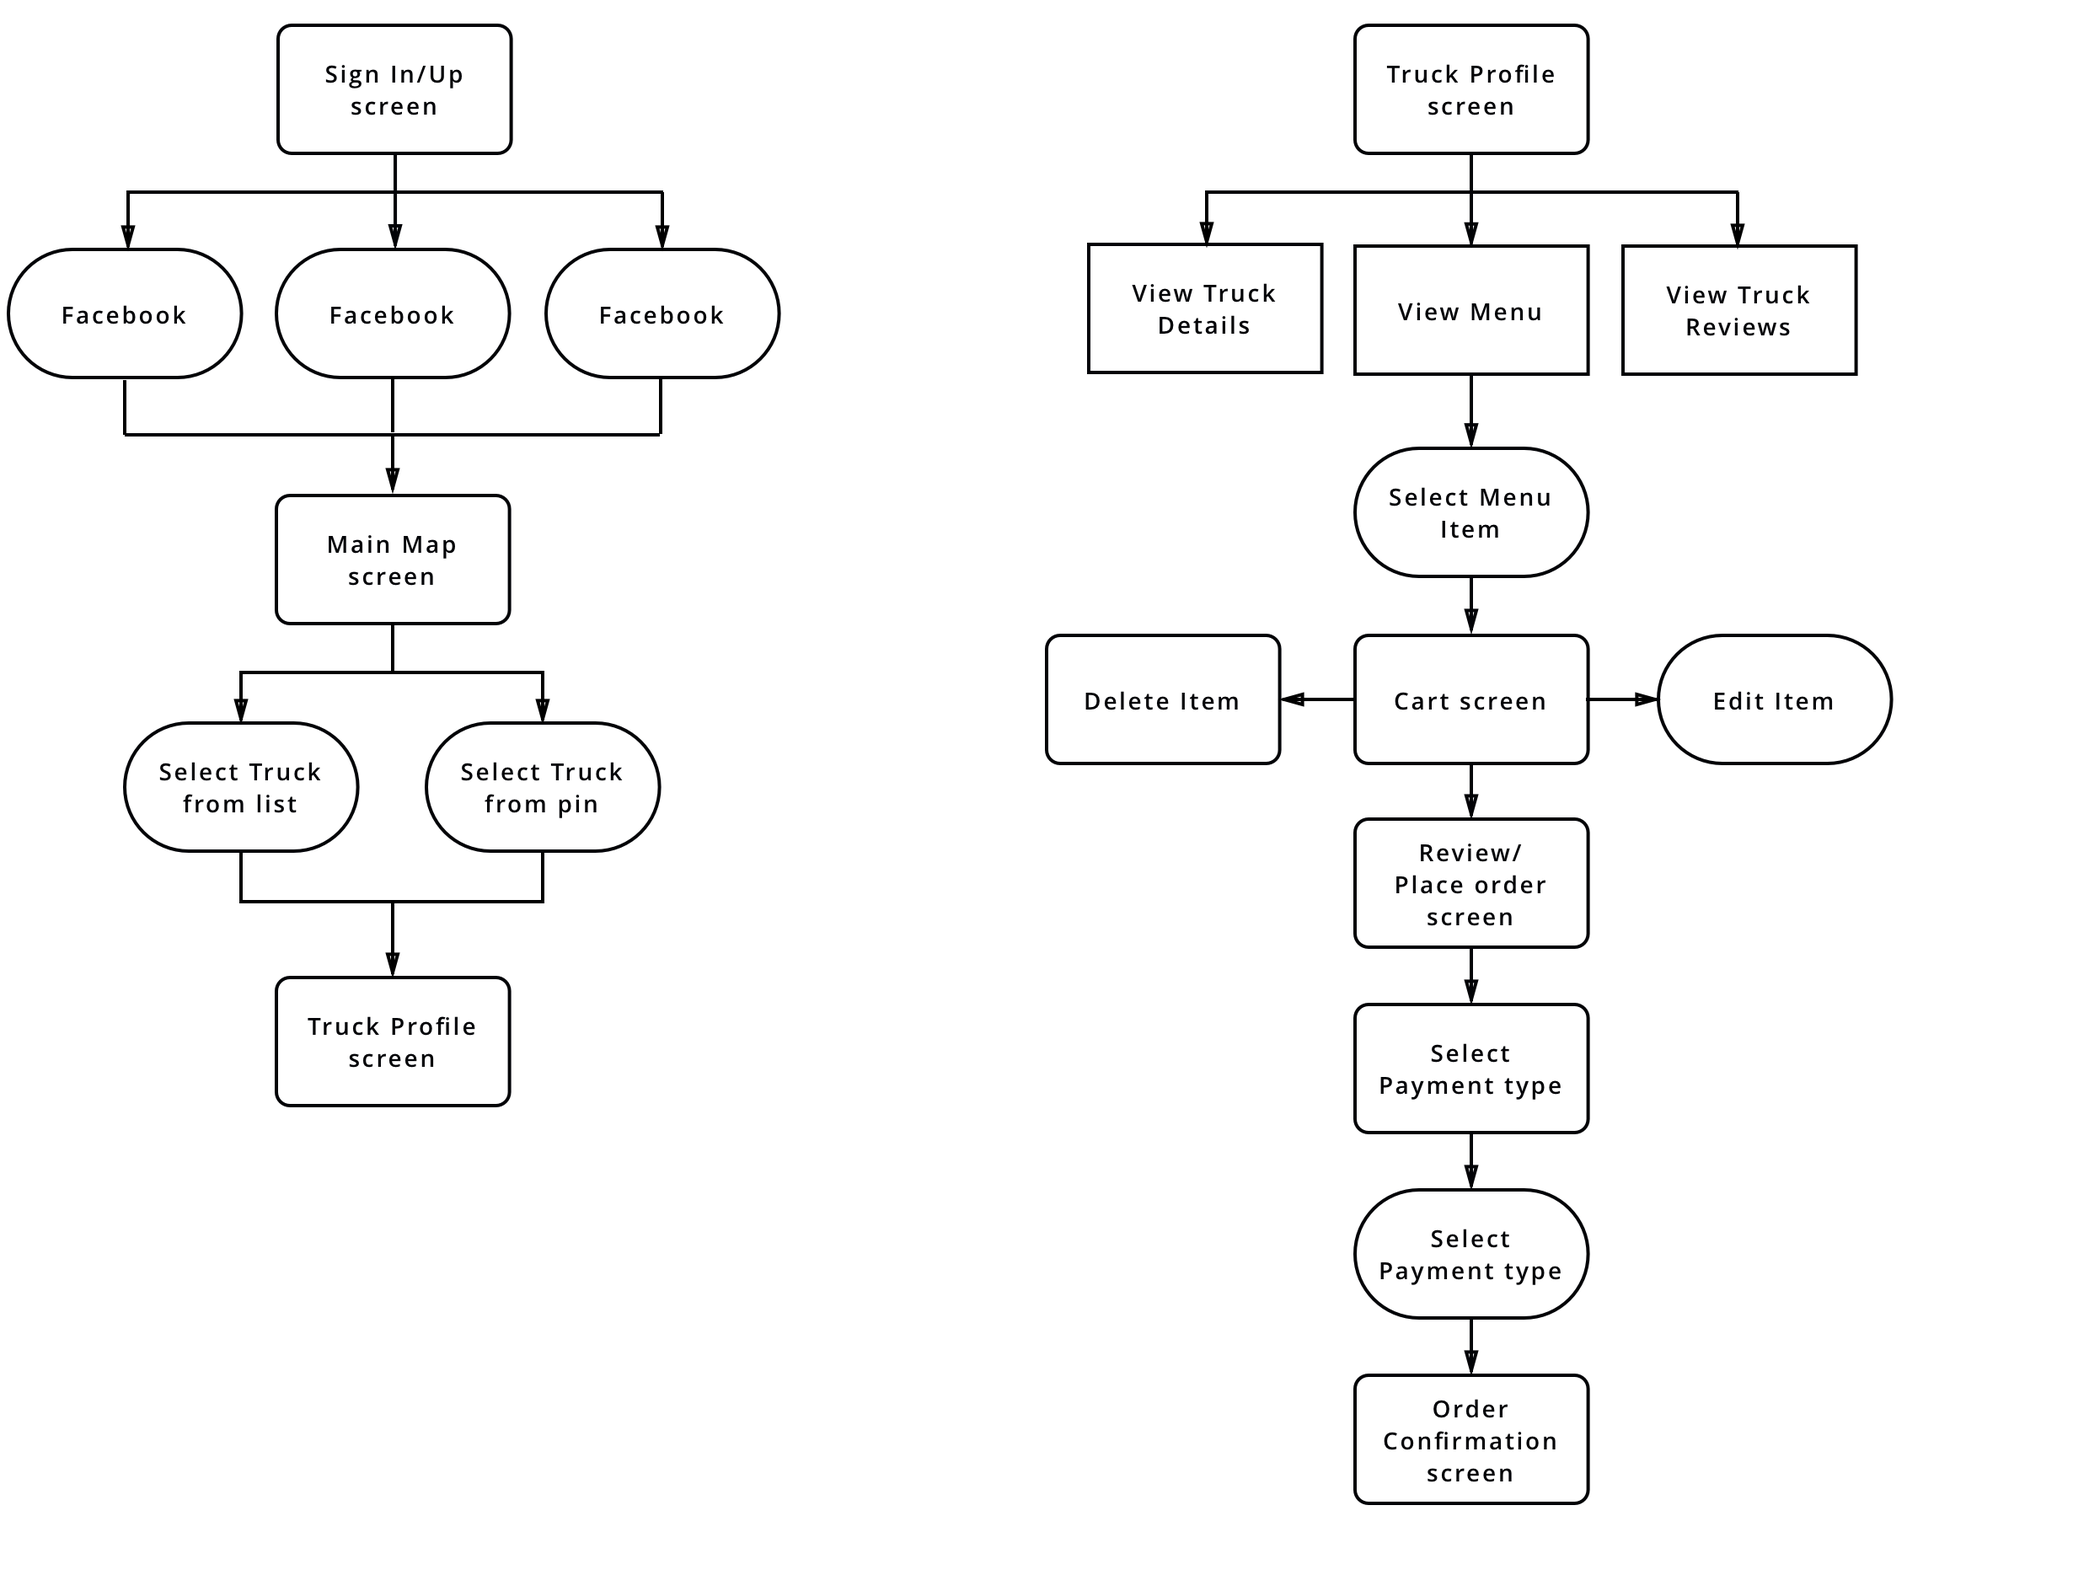
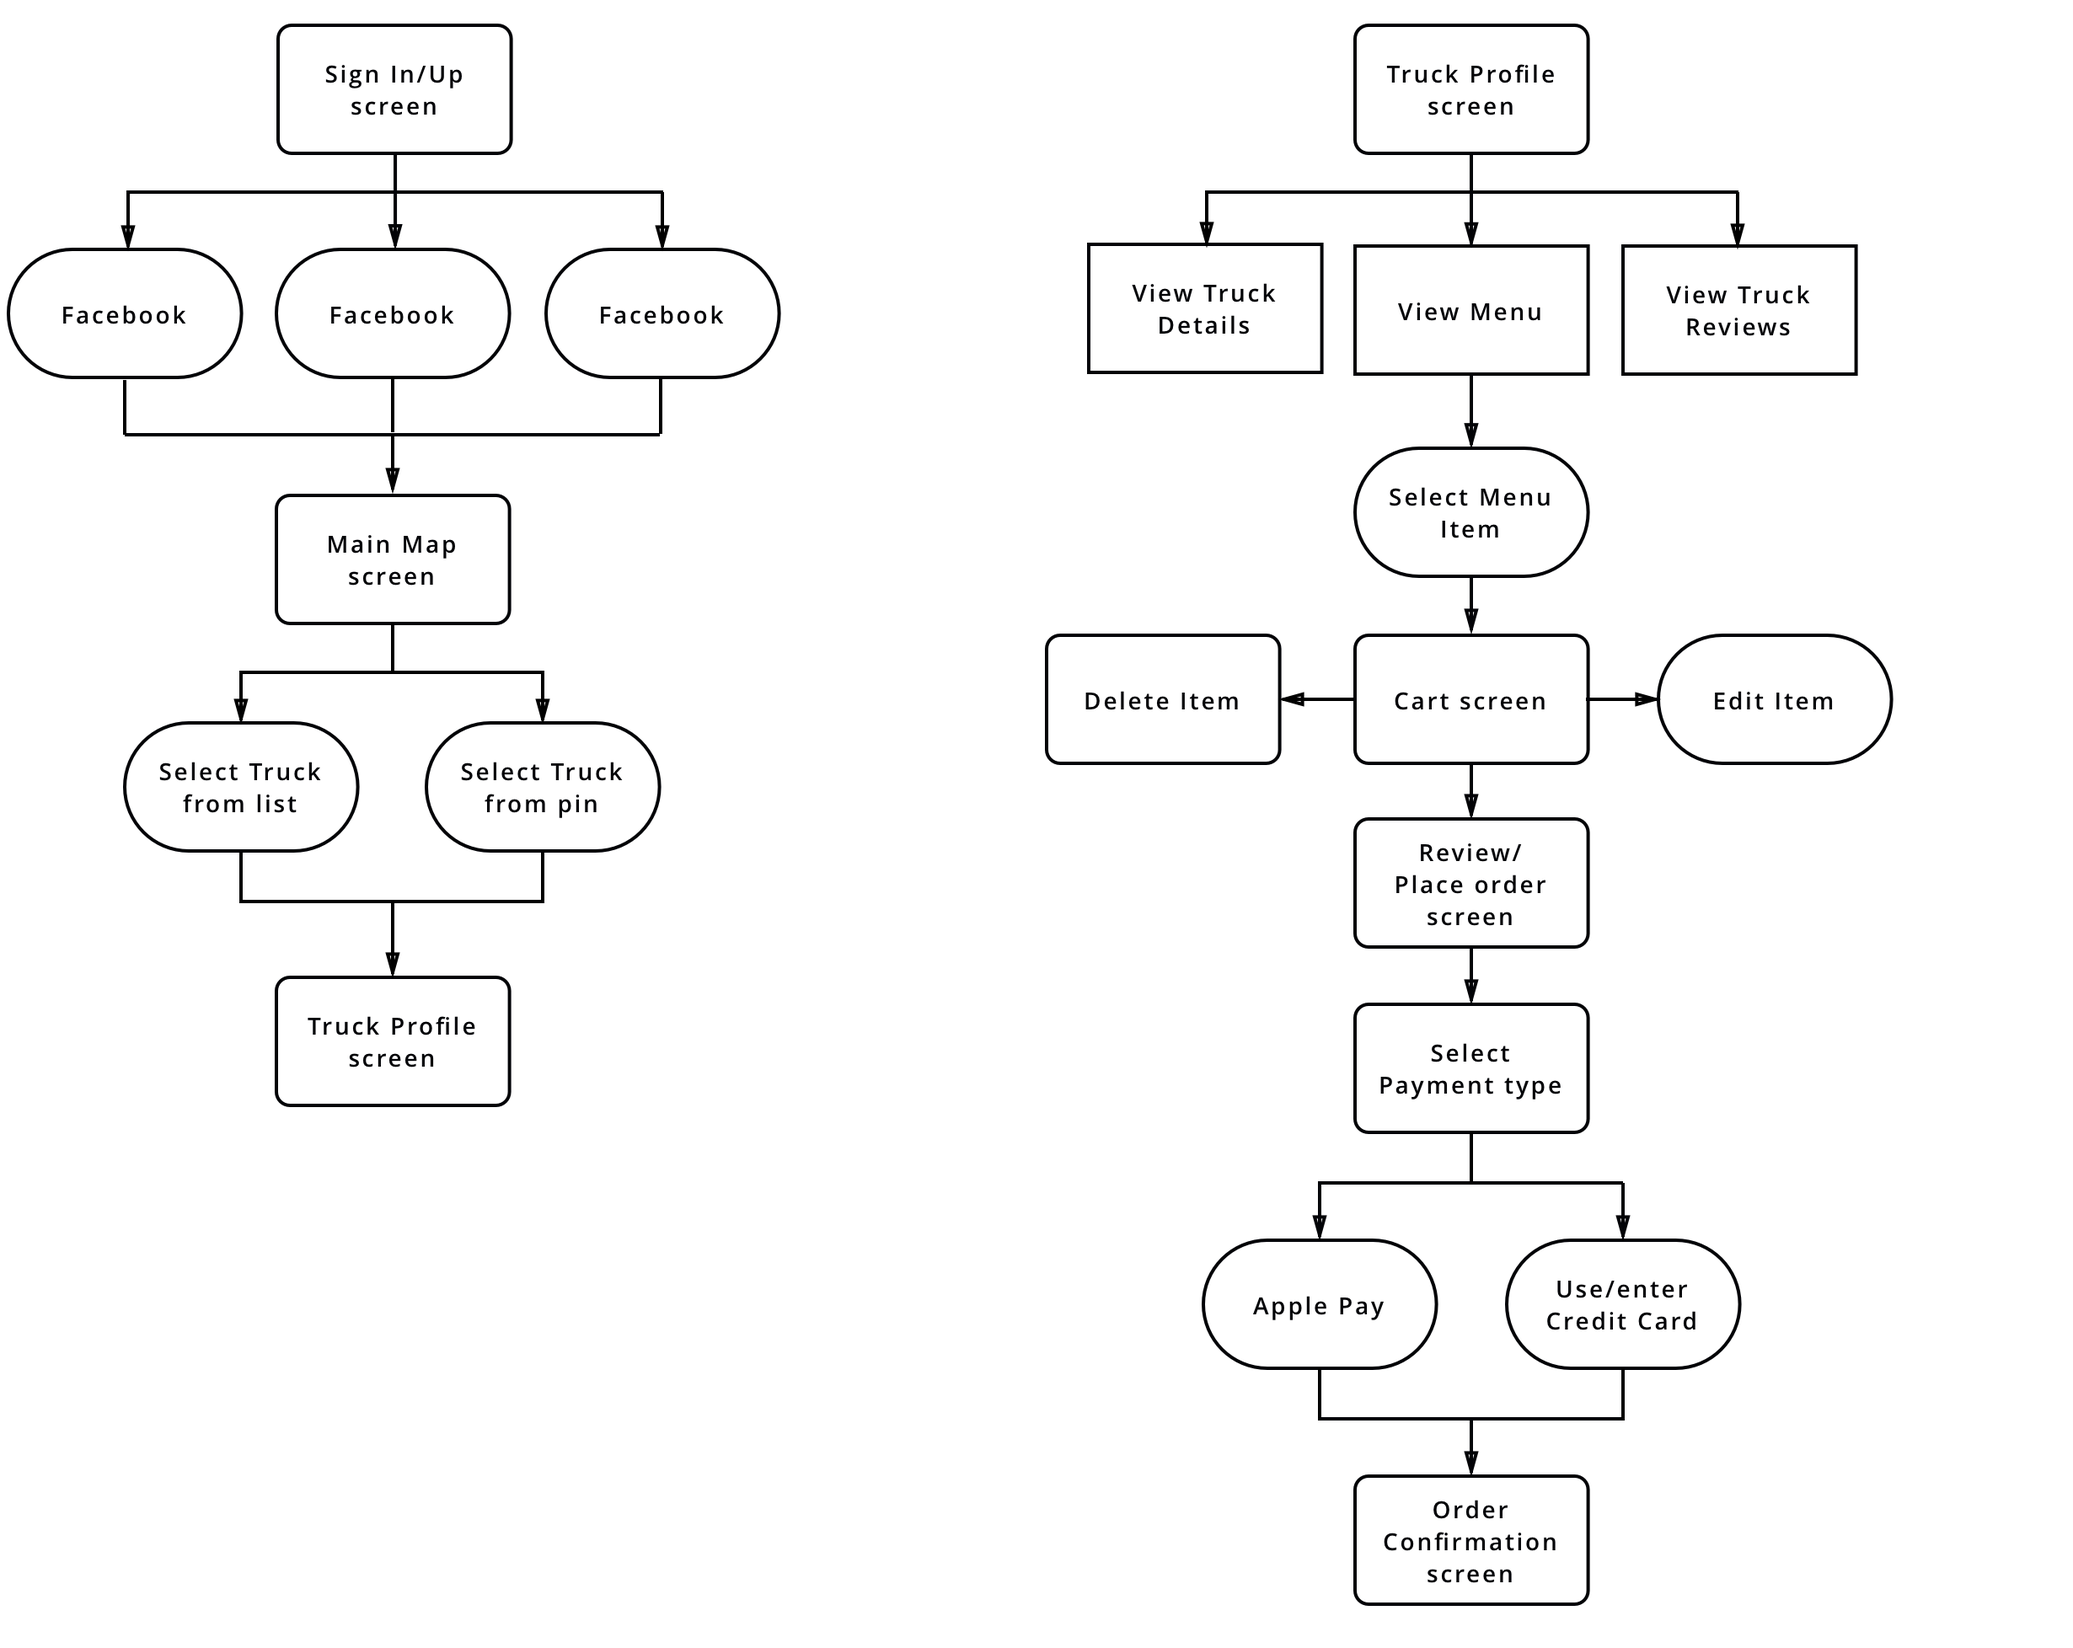
added rest of tasty trucks case study

diff --git a/case-studies/tasty-trucks.html b/case-studies/tasty-trucks.html
@@ -67,7 +67,7 @@
                     <div class="study-intro-text right-pad">
                         <div class="intro-content">
                             <h2>Find local FoodTrucks,
-Order through app,
+Order on app,
 Pick up food,
 Done.</h2>         
                         </div>
@@ -83,7 +83,7 @@ Done.</h2>
                       <h2  class="study-pad section-header">The Solution</h2>
                       <p   class="study-pad">I researched mobile apps in the food delivery sector. The GrubHub app inspired the design for Tasty Trucks.</p>
                       <p><img class="study-pad" src="../assets/tasty-trucks/five-screens.png" alt="Five Screen images of Tasty Trucks" /></p>
-                      <a class="study-pad" href="https://invis.io/8G98G3AQN">Link to Invision Prototype</a>    
+                      <a class="study-pad" href="https://invis.io/8G98G3AQN">View InVision Prototype</a>    
                       
                       
                     </div>
@@ -223,83 +223,63 @@ Done.</h2>
                       <div class="process-section">
                           <h3 class="study-pad sub-section-header">Wireframes</h3>
                           
-                          <p class="study-pad">I came up with a few layouts that I felt captured a vintage wine look reflective of a time and place.</p>
+                          <p class="study-pad">From the user flow diagram I designed low-fidelity wireframes.  I realized through this process that a map would be important for locating trucks.  I also realized that although this is an iOS app that users might not have Apple Pay set up so I added the option of using a credit card for payment.</p>
                           <div class="study-pad img-wrapper tasty-wires">  
                             <img class="study-pad" src="../assets/tasty-trucks/wires/iPhone%207%20-%20Login.png" />
-                            <img class="study-pad" src="../assets/tasty-trucks/wires/iPhone%207%20-%20Slide%20.png" />
+                            <img class="study-pad" src="../assets/tasty-trucks/wires/iPhone%207%20-%20Map%20View%20Final.jpg" />
                               <img class="study-pad" src="../assets/tasty-trucks/wires/iPhone%207%20-%20Menu%20View.jpg" />
                             
                          </div>
-                          <h5 class="study-pad">Wireframe Type 1 variation</h5>
-                         <p class="study-pad">Used an upcoming events bar instead of the email and social media links.  I moved the social links to the top navigation bar.  I also removed the join email list input.</p>
-                          <div class="study-pad img-wrapper personas">  
-                            <img class="study-pad" src="../assets/winery/wires/layout1v2.png" />
+                          <div class="study-pad img-wrapper tasty-wires">
+                             <img class="study-pad" src="../assets/tasty-trucks/wires/iPhone%207%20-%20Truck%20Reviews.jpg" />
                             
-                         </div>
-                          
-                         <h5 class="study-pad">Wireframe Type 2</h5>
-                         
-                          <div class="study-pad img-wrapper personas">  
-                            <img class="study-pad" src="../assets/winery/wires/layout2v1.png" />
+                              <img class="study-pad" src="../assets/tasty-trucks/wires/iPhone%207%20-%20Order%20Details.png" />
                             
-                         </div> 
-                          
-                          <h5 class="study-pad">Wireframe Type 3</h5>
-                          <p class="study-pad">I added bold borders below the hero and background for the to navagation. </p>
-                          <div class="study-pad img-wrapper personas">  
-                            <img class="study-pad" src="../assets/winery/wires/layout3v1.png" />
-                            
-                         </div>
-                          <h5 class="study-pad">Wireframe Type 3 variation</h5>
-                          <p class="study-pad">I moved the image next to the winery information and put it behind the information centering it on the page.  </p>
-                          <div class="study-pad img-wrapper personas">  
-                            <img class="study-pad" src="../assets/winery/wires/layout3v2.png" />
-                            
-                         </div>
+                            <img class="study-pad" src="../assets/tasty-trucks/wires/iPhone%207%20-%20Add%20Payment%20Option.png" />
+                          </div>
+                           <div class="study-pad img-wrapper tasty-wires">
+                            <img class="study-pad" src="../assets/tasty-trucks/wires/iPhone%207%20-%20Add%20Card.png" />
+                            <img class="study-pad" src="../assets/tasty-trucks/wires/iPhone%207%20-%20Account.png" />
+                            <img class="study-pad" src="../assets/tasty-trucks/wires/iPhone%207%20-%20Transcations.png"/>
+                           </div>
+
                       </div>
                         
                       <div class="process-section">
                           <h3 class="study-pad sub-section-header">Mockups</h3>
                           
-                          <h5 class="study-pad mockups">Typography</h5>
-                          <p class="study-pad">Timothy has a serif font for his logo so I decided to paired it with san serif.  I chose Lato because it’s friendly, warm, and sophisticated.</p>
+                          <h5 class="study-pad mockups">UI Elements</h5>
+                          <p class="study-pad">For consistency and familiarity, I used a number of stand UI elements and the iOS SF font.</p>
+                          <div class="study-pad img-wrapper img-pad tasty-elements">  
+                                <img class="study-pad no-border" src="../assets/tasty-trucks/ui-elements.png" />
+                          </div>
+                          
                           <h5 class="study-pad mockups">Color Psychology</h5>
-                          <p class="study-pad">I decided to flip the yellow and black that Timothy has on his label because the yellow stands out better on top of the burgundy color.  Other than that I stuck with Timothy's color palette.</p>
-                          <div class="study-pad img-wrapper img-pad">  
-                                <img class="study-pad no-border" src="../assets/winery/typography.png" />
+                          <p class="study-pad">Red is known to invoke hunger so I chose it as my primary color.  I used a light shade of yellow as the secondary color since it is warm and also can stimulate the appetite.</p>
+                           <div class="study-pad img-wrapper img-pad">  
+                                <img class="study-pad no-border" src="../assets/tasty-trucks/colors.png" />
                           </div>
                     
-<!--
-                          <div class="study-pad typography">
-                              <div class="typo-left">
-                                  <h3 class="typo-heading lora caps">Heading</h3>
-                                  <h1 class="lora">H1 Lora</h1>
-                                  <h2 class="lora">H2 Lora</h2>
-                                  <h3 class="lora header-three">H3 Lora</h3>
-                              </div>
-                              <div class="typo-right">
-                                  <h3 class="typo-heading caps">Paragraph</h3>
-                                  <p>Bacon ipsum dolor amet pork chop pastrami kielbasa meatball sirloin chuck, venison bacon ribeye short ribs beef burgdoggen turkey landjaeger. Brisket pig salami frankfurter turkey capicola, porchetta burgdoggen biltong short loin swine tongue tail cupim</p>
-                              </div>
+
+                          <p class="study-pad">Mockups</p>
+                          <div class="study-pad img-wrapper tasty-wires">  
+                              <img class="study-pad" src="../assets/tasty-trucks/mocks/iPhone%207%20-%20SignUp%20OR%20Login.jpg" />
+                              <img class="study-pad" src="../assets/tasty-trucks/mocks/Initial%20Screen.jpg" />
+                              <img class="study-pad" src="../assets/tasty-trucks/mocks/iPhone%207%20-%20Map%20View%20Final.jpg" />
                              
-                              
                          </div>
--->
-                          <p class="study-pad">Mockup Type 1</p>
-                          <div class="study-pad img-wrapper img-pad">  
-                                <img class="study-pad" src="../assets/winery/mocks/layout1.png" />
+                          <div class="study-pad img-wrapper tasty-wires">
+                             <img class="study-pad" src="../assets/tasty-trucks/mocks/iPhone%207%20-%20Map%20View%20Scoll%20Final.jpg" />
+                            
+                              <img class="study-pad" src="../assets/tasty-trucks/mocks/iPhone%207%20-%20Menu%20View.jpg" />
+                            
+                            <img class="study-pad" src="../assets/tasty-trucks/mocks/iPhone%207%20-%20Food%20Selection.jpg" />
                           </div>
-                        
-                          
-                          <p class="study-pad">Mockup Type 2</p>
-                          <div class="study-pad img-wrapper img-pad">  
-                                <img class="study-pad" src="../assets/winery/mocks/layout2v2.png" />
-                          </div>
-                          
-                          <p class="study-pad">Mockup Type 3</p>
-                          <div class="study-pad img-wrapper img-pad">  
-                                <img class="study-pad" src="../assets/winery/mocks/layout2v4.png" />
-                          </div>
+                           <div class="study-pad img-wrapper tasty-wires">
+                            <img class="study-pad" src="../assets/tasty-trucks/mocks/iPhone%207%20-%20Truck%20Details.jpg" />
+                            <img class="study-pad" src="../assets/tasty-trucks/mocks/iPhone%207%20-%20Cart%20Edit-Delete.jpg" />
+                            <img class="study-pad" src="../assets/tasty-trucks/mocks/iPhone%207%20-%20Rating%20Dialog.jpg"/>
+                           </div>
                           
                       </div>
                       
@@ -308,14 +288,10 @@ Done.</h2>
                     <div class="conclusion right-pad">
                       
                       <h2 class="study-pad section-header">Conclusion</h2>
-                      <p class="study-pad">When designing this site I learned that it’s ok to break away from the traditional design grid.  Breaking from the grid can give life to the design.  With a development background, I did this with caution thinking about the development time and knowing that a functional site is a priority.
-<p class="study-pad">
-When designing the mockups my initial favorite wasn’t the design we ended up going with.   I initially thought wireframe type 3 would be best one because it was a new type of design for me and it felt fresh.  I learned that you shouldn’t get too attached to a design and that alternative designs help you and your client make better decisions on what is the best design for the project.   We ultimately decided on mockup type 2 because the story of the winemaker is important and we felt it should be one of the first things users read about when landing on the site. 
-</p> 
-
-                      <p   class="study-pad">The home page is built and hosted on GitHub.</p>
+                      <p class="study-pad">While designing Tasty Trucks I learned about the iOS UI elements and where it is best to use them.  I also learned that by using swipe gestures I can reduce clutter on the screen as in the case of when the user swipes a cart item and gets to edit or delete the item.  Or when the user scrolls up on the truck list so the list expands close to the top of the screen.
+                      <p   class="study-pad">This iOS application was designed using Sketch.</p>
                       
-                        <a class="study-pad left-justify link-to-site" href="https://robgrabowski.github.io/timothy-malone-wines/">Link to site</a>
+                        <a class="study-pad left-justify link-to-site" href="https://invis.io/8G98G3AQN" target="_blank">View InVision Prototype</a>
                          
                       
                       

diff --git a/styles/main.css b/styles/main.css
@@ -56,6 +56,7 @@ table{
 .tasty-trucks .study-intro-text{
     background-image: url(../assets/tasty-trucks/soho-taco.jpg);
     background-position: center;
+    background-size: 100%;
 }
 .study-intro-text h2{
     text-align: center;
@@ -72,6 +73,8 @@ table{
 .tasty-trucks .study-intro-text h2{
     color: #fff;
     width: 50%;
+    text-shadow: 0px 4px 4px rgba(72,71,71,1);
+    line-height: 1.4;
 }
 .wines .study-intro-text h2{
     padding: 30px 0;
@@ -92,7 +95,7 @@ table{
     min-height: 325px;
 }
 .tasty-trucks .solution{
-    min-height: 1000px;
+    min-height: 800px;
 }
 .study-pad{
     color: #020307;
@@ -133,6 +136,9 @@ table{
 }
 .wines .conclusion{
     min-height: 750px;
+}
+.tasty-trucks .conclusion {
+    min-height: 500px;
 }
 .solution h2, .solution p, .solution a, .conclusion h2, .conclusion p, .conclusion a{
     color: #fff;
@@ -206,6 +212,9 @@ table{
     padding: 0px 0;
     
 }
+.tasty-wires{
+    padding-bottom: 20px !important;
+}
 .tasty-wires img{
     display: inline-block;
     width: 30%;
@@ -223,6 +232,9 @@ table{
     display: block;
     padding-bottom: 50px;
     padding-top: 10px;
+}
+.tasty-elements{
+    padding-bottom: 20px !important;
 }
 /*
 .personas{
@@ -282,6 +294,7 @@ table{
 }
 .conclusion a, .conclusion a:hover, .conclusion a:visited{
     text-align: left;
+    text-decoration: none;
 }
 .conclusion .link-to-site{
     font-size: 1.2em;
